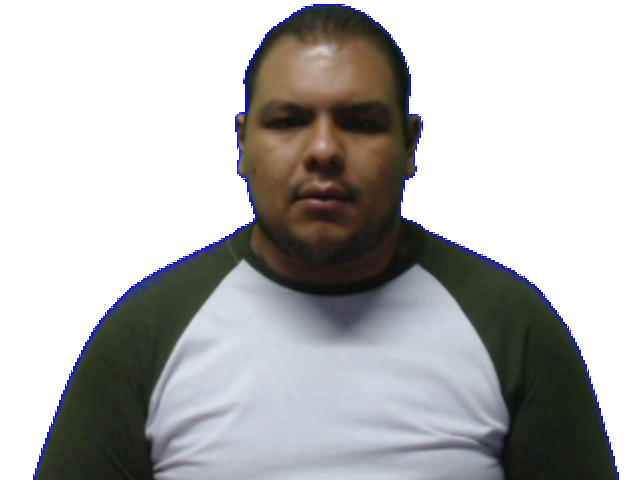
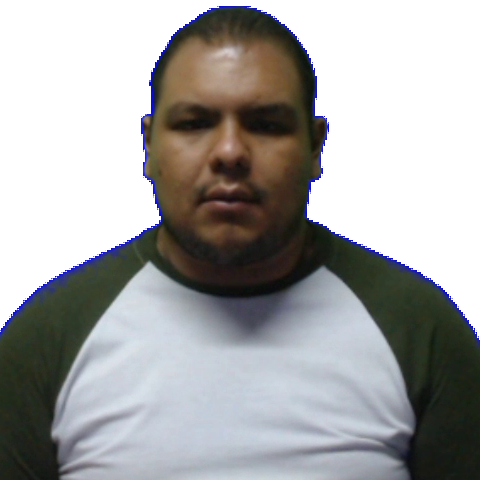
Cambio la foto de perfil y su estilo

diff --git a/index.html b/index.html
@@ -58,7 +58,7 @@
 
       <div class="row">
         <div class="col-12 col-sm-12 col-md-4 col-lg-3 col-xl-2">
-          <img src="img/perfil.png" class="img-fluid" alt="foto">
+          <img src="img/perfil.png" class="img-fluid" alt="foto" style="border-radius: 100%;">
         </div>
         <div class="col-12 col-sm-12 col-md-8 col-lg-9 col-xl-7">
           <h1>Carlos Antonio Macías Duarte</h1>
